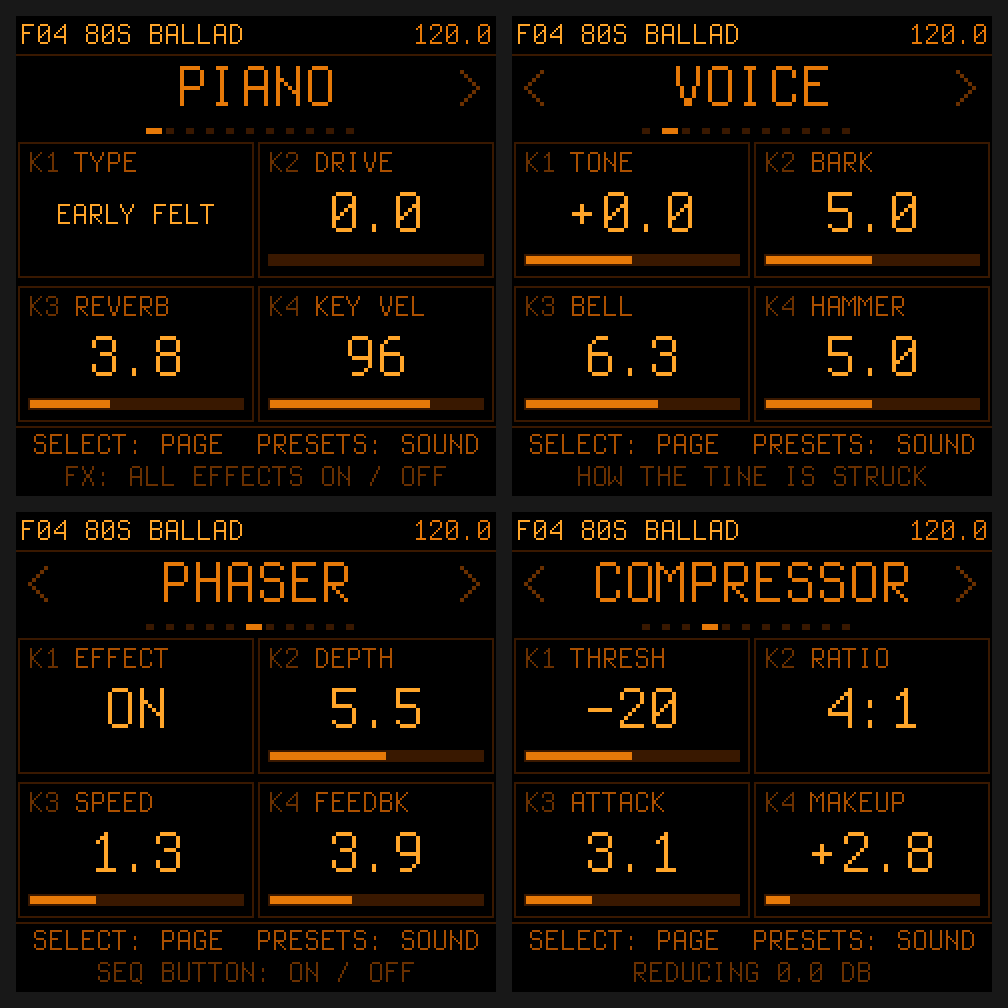
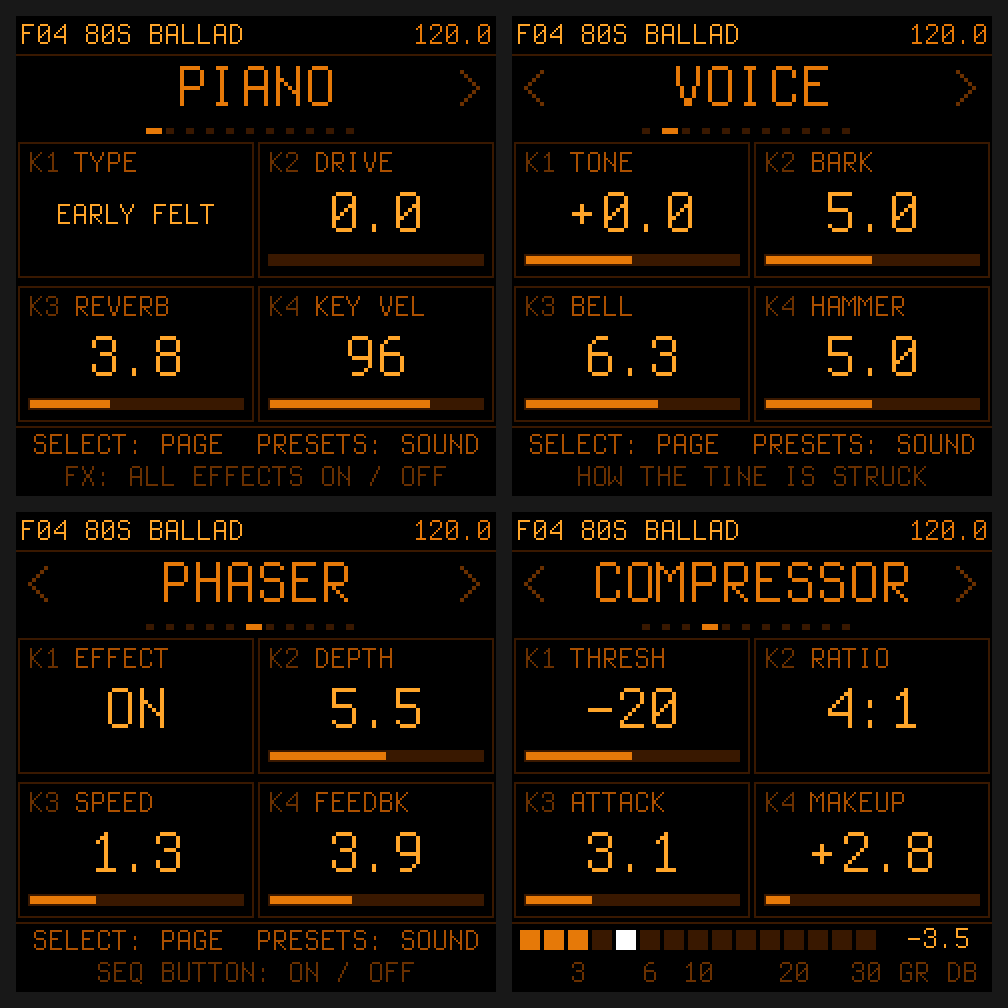
COMPRESSOR page: a gain-reduction meter like a hardware compressor (LED segments 1-30 dB, 1 s peak hold, live dB, ~30 Hz, redrawn only on change); fixes the old readout, which was 10x too high

Changed region(s): [[0.4921, 0.9226, 0.9841, 0.9841]]

diff --git a/firmware/src/ui.c b/firmware/src/ui.c
@@ -20,7 +20,7 @@ static void tempo_tap(void);                          /* tempo.c */
 static void tempo_set10(uint32_t b);
 
 enum { PG_PIANO, PG_VOICE, PG_DECAY, PG_COMP, PG_TREM, PG_PHA, PG_CHO, PG_DELAY, PG_TEMPO, PG_SCALE, PG_SETUP, PG_N };
-enum { E_HEADER = 0, E_TITLE = 1, E_CARD0 = 2, E_FOOTER = 6, E_N = 7, E_CARDS = 10 };   /* E_CARDS: all four */
+enum { E_HEADER = 0, E_TITLE = 1, E_CARD0 = 2, E_FOOTER = 6, E_METER = 7, E_N = 8, E_CARDS = 10 };   /* E_CARDS: all four */
 /* card slots: a parameter id (< P_COUNT) or one of these */
 enum { S_KVEL = 64, S_TUNE, S_BPM, S_CLOCK, S_SCMODE, S_SCALE, S_ROOT, S_TRANS, S_TWKIND, S_NONE = 0xFF };
 
@@ -208,6 +208,16 @@ static void slot_turn(uint32_t s, int32_t d)
 }
 
 /* ---- drawing */
+#define GR_SEGS 15u
+#define GR_X0 4
+#define GR_W 12
+#define GR_X1 (GR_X0 + (int32_t)GR_SEGS * GR_W + 2)
+static const int16_t GR_DB10[GR_SEGS] = {10, 20, 30, 40, 50, 60, 80, 100, 120, 150, 180, 200, 240, 270, 300};
+static const uint8_t GR_LAB[GR_SEGS] = {0, 0, 1, 0, 0, 1, 0, 1, 0, 0, 0, 1, 0, 0, 1};    /* 3 6 10 20 30 */
+static int32_t gr_db10;
+static uint8_t gr_peak;
+static uint32_t gr_shown = 0xFFFF;
+
 static void text_c(int32_t x, int32_t y, int32_t w, const felucca_font_t *f, const char *s, uint16_t c)
 {
     cv_text(x + (w - text_w(f, s)) / 2, y, f, s, c);
@@ -284,14 +294,20 @@ static void draw_footer(void)
         if (text_w(&FONT_L, ui_msg) <= 236) text_c(0, 2, 240, &FONT_L, ui_msg, C_HI);
         else text_c(0, 10, 240, &FONT_S, ui_msg, C_HI);
     } else {
+        if (ui_page == PG_COMP) {                        /* the gain-reduction meter (draw_meter) and its scale */
+            uint32_t i;
+            if (PV(P_CMP_SW)) {
+                for (i = 0; i < GR_SEGS; i++)
+                    if (GR_LAB[i]) { char t[4]; p_fmt_int(t, GR_DB10[i] / 10); text_c(GR_X0 + (int32_t)i * GR_W - 4, 18, GR_W + 6, &FONT_S, t, C_DIM); }
+                text_c(GR_X1, 18, 240 - GR_X1, &FONT_S, "GR DB", C_DIM);
+            } else text_c(0, 18, 240, &FONT_S, "ENV BUTTON: ON / OFF", C_DIM);
+            gr_shown = 0xFFFF;                          /* the meter rows: draw them again */
+            ui_mark(E_METER);
+            cv_blit(0, 205);
+            return;
+        }
         text_c(0, 2, 240, &FONT_S, "SELECT: PAGE  PRESETS: SOUND", C_GRAY);
-        if (ui_page == PG_COMP) {
-            static char gr[24];
-            int32_t db10 = PV(P_CMP_SW) ? fx_cmp_gr * 602 / 4096 : 0;      /* log2 Q12 -> dB x 10 */
-            p_strcpy(gr, "REDUCING ", 9); p_fmt_int(gr + 9, db10 / 10);
-            { uint32_t n = 0; while (gr[n]) n++; gr[n++] = '.'; gr[n++] = (char)('0' + db10 % 10); p_strcpy(gr + n, " DB", 3); }
-            text_c(0, 18, 240, &FONT_S, PV(P_CMP_SW) ? gr : "ENV BUTTON: ON / OFF", C_DIM);
-        } else if (ui_page == PG_SETUP) {
+        if (ui_page == PG_SETUP) {
             static char cpu[32];
             uint32_t n = 0;
             p_strcpy(cpu, "AUDIO ", 6); p_fmt_int(cpu + 6, (int32_t)prof_us);
@@ -305,6 +321,45 @@ static void draw_footer(void)
     cv_blit(0, 205);
 }
 
+/* the compressor's gain-reduction meter, as on a hardware compressor: LED segments that light from 1 dB to 30 dB,
+ * a peak that holds for a second, and the reading in dB; footer rows 1..16, redrawn only when they change (~30 Hz) */
+static void draw_meter(void)
+{
+    char t[12];
+    uint32_t i, n = 0;
+    int32_t db10 = gr_db10;
+    cv_begin(240, 16, C_BLACK);
+    for (i = 0; i < GR_SEGS; i++) {
+        uint16_t c = C_LINE;
+        if (PV(P_CMP_SW) && db10 >= GR_DB10[i]) c = GR_DB10[i] > 100 ? C_HI : C_AMB;
+        else if (PV(P_CMP_SW) && i + 1u == gr_peak) c = C_WHITE;
+        cv_rect(GR_X0 + (int32_t)i * GR_W, 3, GR_W - 2, 10, c);
+    }
+    if (PV(P_CMP_SW)) {
+        t[n++] = '-'; p_fmt_int(t + n, db10 / 10);
+        while (t[n]) n++;
+        t[n++] = '.'; t[n++] = (char)('0' + db10 % 10); t[n] = 0;
+        text_c(GR_X1, 0, 240 - GR_X1, &FONT_S, db10 ? t : "0.0", db10 ? C_HI : C_DIM);
+    } else text_c(GR_X1, 0, 240 - GR_X1, &FONT_S, "OFF", C_DIM);
+    cv_blit(0, 206);
+}
+/* ~30 Hz on the COMP page: follow the ISR's reduction (it rises at once, falls at 15 dB/s, like a meter's needle) */
+static void meter_poll(void)
+{
+    static uint32_t t, peak_t;
+    int32_t g;
+    uint32_t segs = 0, key;
+    if (ui_page != PG_COMP || pr_save_mode || (ui_msg_t && fm1_ms - ui_msg_t < MSG_MS) || fm1_ms - t < 33u) return;
+    t = fm1_ms;
+    g = PV(P_CMP_SW) && !fx_bypass ? fx_cmp_gr * 301 / 20480 : 0;      /* log2 Q12 -> dB x 10 */
+    if (g > 300) g = 300;
+    gr_db10 = g > gr_db10 ? g : gr_db10 > g + 5 ? gr_db10 - 5 : g;
+    while (segs < GR_SEGS && gr_db10 >= GR_DB10[segs]) segs++;
+    if (segs >= gr_peak || fm1_ms - peak_t > 1000u) { gr_peak = (uint8_t)segs; peak_t = fm1_ms; }
+    key = (uint32_t)gr_db10 | (uint32_t)gr_peak << 9;
+    if (key != gr_shown) { gr_shown = key; ui_mark(E_METER); }
+}
+
 static void ui_draw_page_change(void) { ui_dirty |= (1u << E_N) - 1u; }
 
 /* one element per pass, in priority order: footer, header, title, cards */
@@ -316,16 +371,18 @@ static void ui_draw(void)
     if (ui_msg_t && fm1_ms - ui_msg_t >= MSG_MS && fm1_ms - ui_msg_t < MSG_MS + 100u) ui_mark(E_FOOTER);
     if (ui_hot_t && ui_hot_card < 4u && fm1_ms - ui_hot_t >= HOT_MS && fm1_ms - ui_hot_t < HOT_MS + 100u)
         ui_mark(E_CARD0 + ui_hot_card);
-    if ((ui_page == PG_SETUP || ui_page == PG_COMP) && (fm1_ms & 255u) == 0u) ui_mark(E_FOOTER);   /* live readouts */
+    if (ui_page == PG_SETUP && (fm1_ms & 255u) == 0u) ui_mark(E_FOOTER);   /* live readouts */
+    meter_poll();
     d = ui_dirty & ((1u << E_N) - 1u);
     if (!d || fm1_ms - ui_last_draw < 4u) return;
     e = d >> E_FOOTER & 1u ? E_FOOTER : d & 1u ? E_HEADER : d >> E_TITLE & 1u ? E_TITLE : 0xFF;
-    if (e == 0xFF) for (e = E_CARD0; e < E_FOOTER && !(d >> e & 1u); e++) {}
+    if (e == 0xFF) for (e = E_CARD0; e < E_N && !(d >> e & 1u); e++) {}
     ui_dirty &= ~(1u << e);
     ui_last_draw = fm1_ms;
     if (e == E_HEADER) draw_header();
     else if (e == E_TITLE) draw_title();
     else if (e == E_FOOTER) draw_footer();
+    else if (e == E_METER) { if (ui_page == PG_COMP && !pr_save_mode && !(ui_msg_t && fm1_ms - ui_msg_t < MSG_MS)) draw_meter(); }
     else draw_card(e - E_CARD0);
 }
 

diff --git a/tools/manual_shots.py b/tools/manual_shots.py
@@ -28,6 +28,11 @@ def main():
     for i, name in enumerate(PAGES):
         if i:
             L.append(f"{t} turn 0 1"); t += 700
+        if name == "comp":                                  # a held chord: the gain-reduction meter moves
+            L.append(f"{t} keys 0x2491"); t += 600
+            L.append(f"{t} shot"); shots[t] = name
+            L.append(f"{t + 50} keys 0x0"); t += 900
+            continue
         L.append(f"{t} keys 0x1"); L.append(f"{t + 300} keys 0x0")   # a note: the SUS / level readouts are live
         t += 900
         L.append(f"{t} shot"); shots[t] = name; t += 100

diff --git a/docs/MANUAL.md b/docs/MANUAL.md
@@ -119,7 +119,9 @@ active, REC while the sustain holds, PLAY on the beat when something is synced, 
 | K4 | **MAKEUP** | Gives back the volume the compression takes: 0 to +24 dB |
 
 Press **ENV** on this page to switch it on or off. When you switch it on it starts at −20 dB, 4:1 and +2.8 dB, which
-keeps the volume about the same. The bottom line shows the gain reduction live ("REDUCING 4.5 DB"). The compressor
+keeps the volume about the same. The bottom of the page is a gain-reduction meter, as on a hardware compressor: its segments light from 1 dB
+to 30 dB of reduction (scale 3, 6, 10, 20, 30), a bright segment holds the peak for a second, and the number on the
+right is the reduction now in dB. The compressor
 comes first in the chain, right after the piano.
 
 ### TREM/WAH
